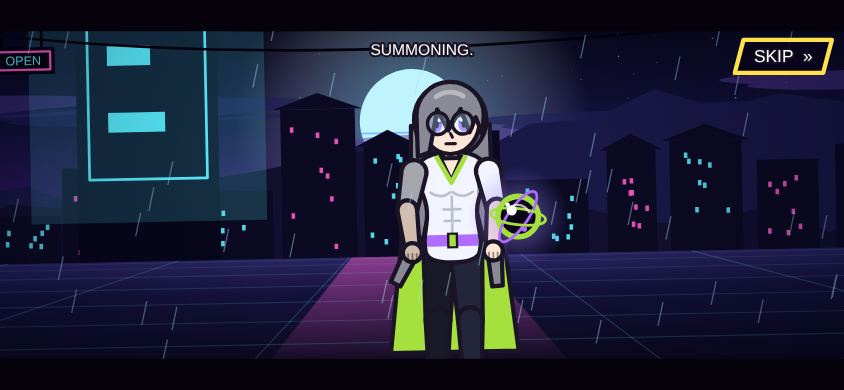
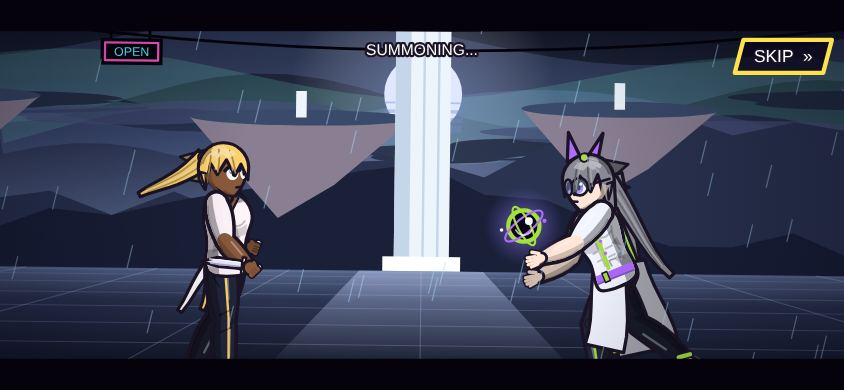
Summon duel face-off: one close shot, both looking at each other (flag duel2, still off)
Claude-Session: https://claude.ai/code/session_017cgwRBCAgYAgyBwMSYA7Tu

diff --git a/look.js b/look.js
@@ -902,7 +902,7 @@ try{window.COMBO_TITLE_CH=['KENKO','NETO']}catch(e){}
    Smoke covers whoever was hit; the winner (both of them on a draw) gets the aura in the colour of the highest rarity pulled, and the rarity is shown.
    Voice: window.COMBO_DUELV(fighter name, line key) is called for each line; it plays nothing until clips exist. Rarity lines use a tier picked from the pulled rarity and lower. */
 {const ON=()=>!!F().sumduel,D2=()=>!!F().duel2;let PEND=null;
- /* duel2 (sumduel was already released): the face-off is two close shots, 3 s in all so the two lines do not overlap: Kenko from the side looking at Neto, then Neto facing the camera;
+ /* duel2 (sumduel was already released): the face-off is one close shot, 3 s so the two lines do not overlap: Kenko and Neto stand near each other, side-on, looking at each other at the same time (Trey's correction; an earlier version cut to Neto facing the camera);
     the ending uses the raised-hand pose of the old summon animation instead of the win animation; and the voice lines play (window.COMBO_DUELV in voice.js). */
  const sm0=summon;summon=function(k){if(!ON())return sm0(k);const n=window.COMBO_TITLE_CH||['KENKO','NETO'],ki=CH.findIndex(c=>c&&c.name===n[0]),ni=CH.findIndex(c=>c&&c.name===n[1]);if(ki<0||ni<0)return sm0(k);
    const o=['win','lose','draw'][Math.floor(Math.random()*3)],m=o==='win'?1.5:o==='lose'?.67:1,keep=TW.map(r=>r.slice());PEND={o,ki,ni};try{TW.forEach(r=>{for(let j=1;j<r.length;j++)r[j]=r[j]*m});return sm0(k)}finally{TW.forEach((r,a)=>{for(let j=0;j<r.length;j++)r[j]=keep[a][j]});PEND=null}};
@@ -919,8 +919,8 @@ try{window.COMBO_TITLE_CH=['KENKO','NETO']}catch(e){}
    if(M.o==='draw'){go(M,17);const mid=(K.x+N.x)/2;K.x=mid-38;N.x=mid+38;K.face=1;N.face=-1;K.state='pose';K.pz=L1B;N.state='pose';N.pz=L1B;spark(mid,-84,'#fff',true);shake(20);G.flash=.4;sfx('hit');say(M,K,'d'+tier(M));return}
    go(M,14);N.hp=M.o==='win'?1:N.mhp;N.inv=M.o==='lose'?9:0;K.inv=0;K.meter=100;faceO(K,N);say(M,K,'ult');try{startUlt(K,N)}catch(e){go(M,15);M.hitx=N.x;M.loser=N;M.winner=K}}
  const st0=stepSummon;stepSummon=function(rdt){const M=G.sm;if(!M||!M.duel)return st0(rdt);const K=M.K,N=M.N;M.t+=rdt;M.st+=rdt;const col=RC[M.rar];let c={x:(K.x+N.x)/2,y:-70,z:1.1,rot:0},kk=Math.min(1,rdt*6);
-   if(M.ph===10){still(K);still(N);K.face=1;N.face=-1;if(D2()){const B=M.st>=1.9;if(M.st>.05&&!M.said.a){M.said.a=1;say(M,K,'face')}if(B&&!M.said.b){M.said.b=1;say(M,N,'face');kk=1}if(M.st<.1)kk=1;M.front=B?N:null;
-      c=B?{x:N.x-14,y:-104,z:lerp(2.25,2.4,(M.st-1.9)/1.1),rot:-.02}:{x:K.x+34,y:-104,z:lerp(2.2,2.35,M.st/1.9),rot:.02};if(M.st>=3){M.front=null;go(M,11)}}
+   if(M.ph===10){still(K);still(N);K.face=1;N.face=-1;if(D2()){if(M.st<.1){K.x=-120;N.x=120;K.vx=N.vx=0;kk=1}if(M.st>.05&&!M.said.a){M.said.a=1;say(M,K,'face')}if(M.st>=1.9&&!M.said.b){M.said.b=1;say(M,N,'face')}M.front=null;
+      c={x:0,y:-102,z:lerp(1.75,1.95,M.st/3),rot:Math.sin(M.st*1.1)*.012};if(M.st>=3)go(M,11)}
      else{if(M.st>.25&&!M.said.a){M.said.a=1;say(M,K,'face')}if(M.st>1.15&&!M.said.b){M.said.b=1;say(M,N,'face')}c={x:0,y:-74,z:lerp(1.02,1.16,M.st/2),rot:0};if(M.st>=2)go(M,11)}}
    else if(M.ph===11){K.inp.mx=1;N.inp.mx=-1;K.inp.guard=N.inp.guard=false;c.z=1.12;if(Math.abs(N.x-K.x)<130||M.st>2.2)go(M,12)}
    else if(M.ph===12){try{ai(K,N,rdt);ai(N,K,rdt)}catch(e){}K.hp=K.hpLag=K.mhp;N.hp=N.hpLag=N.mhp;K.meter=0;N.meter=0;const kinds=['wide','low','orbit','wide','front','pull'],kd=kinds[Math.floor(M.st/1.2)%kinds.length],k2=(M.st%1.2)/1.2;
